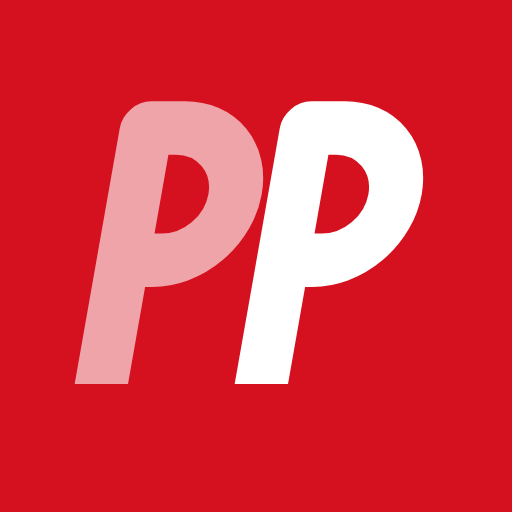
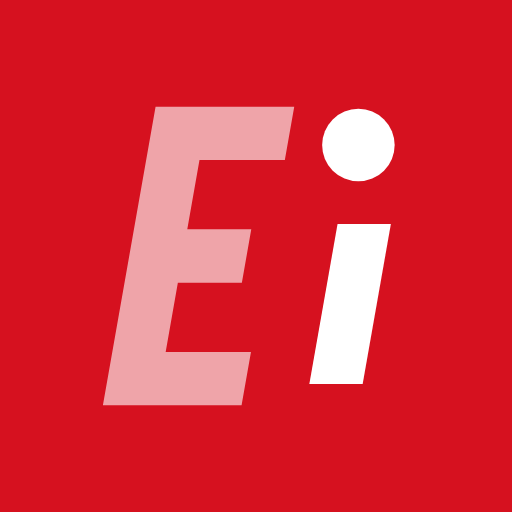
Renomeia o projeto para Esquerda Indica
Nova marca "Ei", ícones do app, textos e e-mails com o novo nome.
Remove a logo duplicada na tela de entrar.

Changed region(s): [[0.125, 0.1875, 0.8438, 0.8125]]

diff --git a/public/sw.js b/public/sw.js
@@ -1,5 +1,5 @@
 // Service worker: guarda os arquivos visuais para o app abrir rápido e mostra aviso quando estiver sem internet.
-const VERSAO = 'pp-v1';
+const VERSAO = 'ei-v1';
 const ARQUIVOS = ['offline', 'assets/css/app.css', 'assets/js/app.js', 'assets/img/icone.svg', 'assets/img/icone-192.png'];
 
 self.addEventListener('install', (e) => {

diff --git a/public/assets/css/app.css b/public/assets/css/app.css
@@ -1,4 +1,4 @@
-/* Profissionais Progressistas: identidade visual
+/* Esquerda Indica: identidade visual
    Branco como base, vermelho como cor de ação, preto para textos sobre branco. */
 
 @font-face {

diff --git a/public/assets/js/app.js b/public/assets/js/app.js
@@ -1,4 +1,4 @@
-/* Profissionais Progressistas: interações da interface */
+/* Esquerda Indica: interações da interface */
 (function () {
   'use strict';
 

diff --git a/app/views/layout.php b/app/views/layout.php
@@ -1,7 +1,7 @@
 <?php
 /** @var string $conteudo */
 $u = usuario_atual();
-$tituloPagina = isset($titulo) && $titulo ? $titulo . ' | Profissionais Progressistas' : 'Profissionais Progressistas';
+$tituloPagina = isset($titulo) && $titulo ? $titulo . ' | Esquerda Indica' : 'Esquerda Indica';
 $aba = $aba ?? '';
 $semAbas = !empty($semAbas) || !$u;
 $pendentesAdmin = ($u && $u['papel'] === 'admin') ? (int)val("SELECT COUNT(*) FROM solicitacoes WHERE status = 'pendente'") : 0;
@@ -11,12 +11,12 @@ $pendentesAdmin = ($u && $u['papel'] === 'admin') ? (int)val("SELECT COUNT(*) FR
 <meta charset="utf-8">
 <meta name="viewport" content="width=device-width, initial-scale=1, viewport-fit=cover">
 <title><?= e($tituloPagina) ?></title>
-<meta name="description" content="Rede de contatos profissionais do grupo Profissionais Progressistas.">
+<meta name="description" content="Rede de contatos profissionais do grupo Esquerda Indica.">
 <meta name="theme-color" content="#D6111F">
 <meta name="robots" content="noindex, nofollow">
 <meta name="apple-mobile-web-app-capable" content="yes">
 <meta name="apple-mobile-web-app-status-bar-style" content="default">
-<meta name="apple-mobile-web-app-title" content="Progressistas">
+<meta name="apple-mobile-web-app-title" content="Esquerda Indica">
 <meta name="csrf" content="<?= e(csrf_token()) ?>">
 <link rel="manifest" href="<?= e(url('manifest.webmanifest')) ?>">
 <link rel="icon" href="<?= e(asset('img/icone.svg')) ?>" type="image/svg+xml">
@@ -33,9 +33,9 @@ $pendentesAdmin = ($u && $u['papel'] === 'admin') ? (int)val("SELECT COUNT(*) FR
       <a class="topo-botao" href="<?= e($voltar) ?>" aria-label="Voltar"><?= icon('voltar') ?></a>
       <h1 class="topo-titulo"><?= e($titulo ?? '') ?></h1>
     <?php else: ?>
-      <a class="topo-marca" href="<?= e(url('/')) ?>" aria-label="Profissionais Progressistas, início">
+      <a class="topo-marca" href="<?= e(url('/')) ?>" aria-label="Esquerda Indica, início">
         <svg class="marca" aria-hidden="true"><use href="#i-marca"/></svg>
-        <span class="topo-nome">Profissionais<br>Progressistas</span>
+        <span class="topo-nome">Esquerda<br>Indica</span>
       </a>
     <?php endif; ?>
     <div class="topo-acoes">

diff --git a/app/views/perfil.php b/app/views/perfil.php
@@ -1,7 +1,7 @@
 <?php
 $nome = nome_exibicao($p);
 $linkPerfil = url_absoluta('p/' . $p['id']);
-$msgWhats = 'Olá! Encontrei seu contato no app Profissionais Progressistas.';
+$msgWhats = 'Olá! Encontrei seu contato no app Esquerda Indica.';
 ?>
 <?php if ($admin && $p['status'] === 'bloqueado'): ?>
   <div class="secao" style="padding-top:16px"><div class="aviso aviso-vermelho"><?= icon('bloquear') ?><p><strong>Perfil bloqueado.</strong> Só a administração vê esta página.</p></div></div>
@@ -23,7 +23,7 @@ $msgWhats = 'Olá! Encontrei seu contato no app Profissionais Progressistas.';
   <a class="acao acao-principal<?= $p['whatsapp'] ? '' : ' desligada' ?>" href="<?= $p['whatsapp'] ? e(link_whatsapp($p['whatsapp'], $msgWhats)) : '#' ?>" target="_blank" rel="noopener"<?= $p['whatsapp'] ? '' : ' aria-disabled="true"' ?>><?= icon('whatsapp') ?>WhatsApp</a>
   <a class="acao<?= $p['telefone'] ? '' : ' desligada' ?>" href="tel:+55<?= e($p['telefone']) ?>"><?= icon('telefone') ?>Ligar</a>
   <a class="acao<?= $p['instagram'] ? '' : ' desligada' ?>" href="<?= $p['instagram'] ? e(link_instagram($p['instagram'])) : '#' ?>" target="_blank" rel="noopener"<?= $p['instagram'] ? '' : ' aria-disabled="true"' ?>><?= icon('instagram') ?>Instagram</a>
-  <button type="button" class="acao" data-compartilhar="<?= e($linkPerfil) ?>" data-titulo="<?= e($nome) ?>" data-texto="<?= e($nome . ', ' . servico_label($p) . ' em ' . local_label($p) . '. Veja no Profissionais Progressistas:') ?>"><?= icon('compartilhar') ?>Compartilhar</button>
+  <button type="button" class="acao" data-compartilhar="<?= e($linkPerfil) ?>" data-titulo="<?= e($nome) ?>" data-texto="<?= e($nome . ', ' . servico_label($p) . ' em ' . local_label($p) . '. Veja no app Esquerda Indica:') ?>"><?= icon('compartilhar') ?>Compartilhar</button>
 </div>
 
 <?php if ($meu): ?>

diff --git a/app/views/inicio.php b/app/views/inicio.php
@@ -3,7 +3,7 @@ $primeiroNome = explode(' ', trim($u['responsavel']))[0];
 ?>
 <section class="destaque">
   <p class="destaque-ola">Olá, <?= e($primeiroNome) ?></p>
-  <h1 class="destaque-manchete">Quem faz, a gente encontra aqui.</h1>
+  <h1 class="destaque-manchete">Precisa de alguém? A rede indica.</h1>
   <div class="numeros">
     <div class="numero"><span class="numero-valor"><?= numero($cont['ativos']) ?></span><span class="numero-rotulo"><?= $cont['ativos'] === 1 ? 'profissional ativo' : 'profissionais ativos' ?></span></div>
     <div class="numero"><span class="numero-valor"><?= numero($cont['total']) ?></span><span class="numero-rotulo"><?= $cont['total'] === 1 ? 'cadastro no total' : 'cadastros no total' ?></span></div>
@@ -70,7 +70,7 @@ $primeiroNome = explode(' ', trim($u['responsavel']))[0];
       <p style="font-weight:800">Chame mais gente do grupo</p>
       <p class="texto-pequeno texto-fraco">Quanto mais perfis, mais útil a rede fica.</p>
     </div>
-    <button type="button" class="botao botao-primario botao-pequeno" data-compartilhar="<?= e(url_absoluta('/')) ?>" data-titulo="Profissionais Progressistas" data-texto="Cadastre seu trabalho na rede Profissionais Progressistas:">Convidar</button>
+    <button type="button" class="botao botao-primario botao-pequeno" data-compartilhar="<?= e(url_absoluta('/')) ?>" data-titulo="Esquerda Indica" data-texto="Cadastre seu trabalho na rede Esquerda Indica:">Convidar</button>
   </div>
 </section>
 <?php endif; ?>

diff --git a/app/config.example.php b/app/config.example.php
@@ -1,10 +1,10 @@
 <?php
 // Copie este arquivo para app/config.php e preencha com os dados do seu servidor.
 return [
-    'app_name'  => 'Profissionais Progressistas',
+    'app_name'  => 'Esquerda Indica',
 
     // Endereço público do site, sem barra no final. Usado nos links de recuperação de senha e compartilhamento.
-    'base_url'  => 'https://profissionaisprogressistas.com.br',
+    'base_url'  => 'https://esquerdaindica.com.br',
 
     // Se o app ficar em uma subpasta (ex.: https://site.com/app), coloque '/app'. Na raiz do domínio, deixe ''.
     'base_path' => '',
@@ -19,8 +19,8 @@ return [
 
     // Envio de e-mail (recuperação de senha). Deixe smtp_host vazio para usar a função mail() do PHP.
     'mail' => [
-        'from'        => 'nao-responda@profissionaisprogressistas.com.br',
-        'from_name'   => 'Profissionais Progressistas',
+        'from'        => 'nao-responda@esquerdaindica.com.br',
+        'from_name'   => 'Esquerda Indica',
         'smtp_host'   => '',
         'smtp_port'   => 587,
         'smtp_user'   => '',
@@ -29,7 +29,7 @@ return [
     ],
 
     // E-mail que aparece na política de privacidade para pedidos sobre dados pessoais
-    'email_contato' => 'contato@profissionaisprogressistas.com.br',
+    'email_contato' => 'contato@esquerdaindica.com.br',
 
     // Quantas alterações de perfil cada novo usuário pode fazer sem pedir liberação
     'edicoes_padrao' => 2,

diff --git a/app/lib/mail.php b/app/lib/mail.php
@@ -76,7 +76,7 @@ function email_modelo(string $titulo, string $texto, ?string $botaoTexto = null,
     $btn = $botaoTexto ? '<p style="margin:28px 0"><a href="' . e($botaoUrl) . '" style="background:#D6111F;color:#fff;text-decoration:none;padding:14px 22px;border-radius:12px;font-weight:700;display:inline-block">' . e($botaoTexto) . '</a></p>' : '';
     return '<!doctype html><html><body style="margin:0;background:#F5F4F4;font-family:Arial,Helvetica,sans-serif;color:#000">'
         . '<div style="max-width:520px;margin:0 auto;padding:32px 20px">'
-        . '<div style="background:#D6111F;color:#fff;font-weight:800;font-size:18px;padding:18px 22px;border-radius:16px 16px 0 0">Profissionais Progressistas</div>'
+        . '<div style="background:#D6111F;color:#fff;font-weight:800;font-size:18px;padding:18px 22px;border-radius:16px 16px 0 0">Esquerda Indica</div>'
         . '<div style="background:#fff;padding:26px 22px;border-radius:0 0 16px 16px">'
         . '<h1 style="font-size:20px;margin:0 0 12px">' . e($titulo) . '</h1>'
         . '<p style="font-size:15px;line-height:1.55;margin:0">' . $texto . '</p>' . $btn

diff --git a/app/views/icones.php b/app/views/icones.php
@@ -2,7 +2,7 @@
   <defs>
     <symbol id="i-marca" viewBox="0 0 48 48">
       <rect width="48" height="48" rx="13" fill="#D6111F"/>
-      <g fill="none" stroke="#fff" stroke-width="5" stroke-linejoin="round" transform="translate(0 36) skewX(-10) translate(0 -36)"><path d="M9.5 36V12h3.2a6.2 6.2 0 0 1 0 12.4H9.5" stroke-opacity=".62"/><path d="M24.5 36V12h3.2a6.2 6.2 0 0 1 0 12.4h-3.2"/></g>
+      <g fill="none" stroke="#fff" stroke-width="5" stroke-linejoin="miter" transform="translate(0 36) skewX(-10) translate(0 -36)"><path d="M23 12.5H12.5v23H23M12.5 24H21" stroke-opacity=".62"/><path d="M31.5 21v15"/></g><circle cx="33.6" cy="13.6" r="3.4" fill="#fff"/>
     </symbol>
     <symbol id="i-inicio" viewBox="0 0 24 24"><path d="M3.5 10.5 12 4l8.5 6.5V19.5a1.5 1.5 0 0 1-1.5 1.5h-4v-6H9v6H5a1.5 1.5 0 0 1-1.5-1.5z"/></symbol>
     <symbol id="i-buscar" viewBox="0 0 24 24"><circle cx="10.5" cy="10.5" r="6.5"/><path d="M15.4 15.4 20.5 20.5"/></symbol>

diff --git a/app/pages/vcard.php b/app/pages/vcard.php
@@ -16,7 +16,7 @@ if ($p['telefone']) $linhas[] = 'TEL;TYPE=CELL:+55' . $p['telefone'];
 if ($p['whatsapp'] && $p['whatsapp'] !== $p['telefone']) $linhas[] = 'TEL;TYPE=WORK:+55' . $p['whatsapp'];
 if ($p['instagram']) $linhas[] = 'URL:' . link_instagram($p['instagram']);
 $linhas[] = 'ADR;TYPE=WORK:;;;' . $esc($p['cidade_nome']) . ';' . $esc($p['uf']) . ';;Brasil';
-$linhas[] = 'NOTE:' . $esc('Responsável: ' . $p['responsavel'] . '. ' . $p['descricao'] . ' (Profissionais Progressistas)');
+$linhas[] = 'NOTE:' . $esc('Responsável: ' . $p['responsavel'] . '. ' . $p['descricao'] . ' (Esquerda Indica)');
 $linhas[] = 'END:VCARD';
 
 $arquivo = preg_replace('/[^a-z0-9]+/', '-', strtolower(iconv('UTF-8', 'ASCII//TRANSLIT', nome_exibicao($p)) ?: 'contato'));

diff --git a/app/views/privacidade.php b/app/views/privacidade.php
@@ -1,5 +1,5 @@
 <article class="texto-longo">
-  <p>Esta política explica quais dados o app <strong>Profissionais Progressistas</strong> guarda, para que servem e quais são seus direitos, conforme a Lei Geral de Proteção de Dados (Lei 13.709/2018).</p>
+  <p>Esta política explica quais dados o app <strong>Esquerda Indica</strong> guarda, para que servem e quais são seus direitos, conforme a Lei Geral de Proteção de Dados (Lei 13.709/2018).</p>
 
   <h2>Quais dados guardamos</h2>
   <ul>

diff --git a/app/pages/esqueci_senha.php b/app/pages/esqueci_senha.php
@@ -21,7 +21,7 @@ if (is_post()) {
             'Criar nova senha',
             $link
         );
-        enviar_email($u['email'], 'Nova senha | Profissionais Progressistas', $html);
+        enviar_email($u['email'], 'Nova senha | Esquerda Indica', $html);
         historico((int)$u['id'], label_usuario($u), 'senha_pedido', 'Pediu link para criar nova senha', null, 'usuario');
     }
     $enviado = true;
